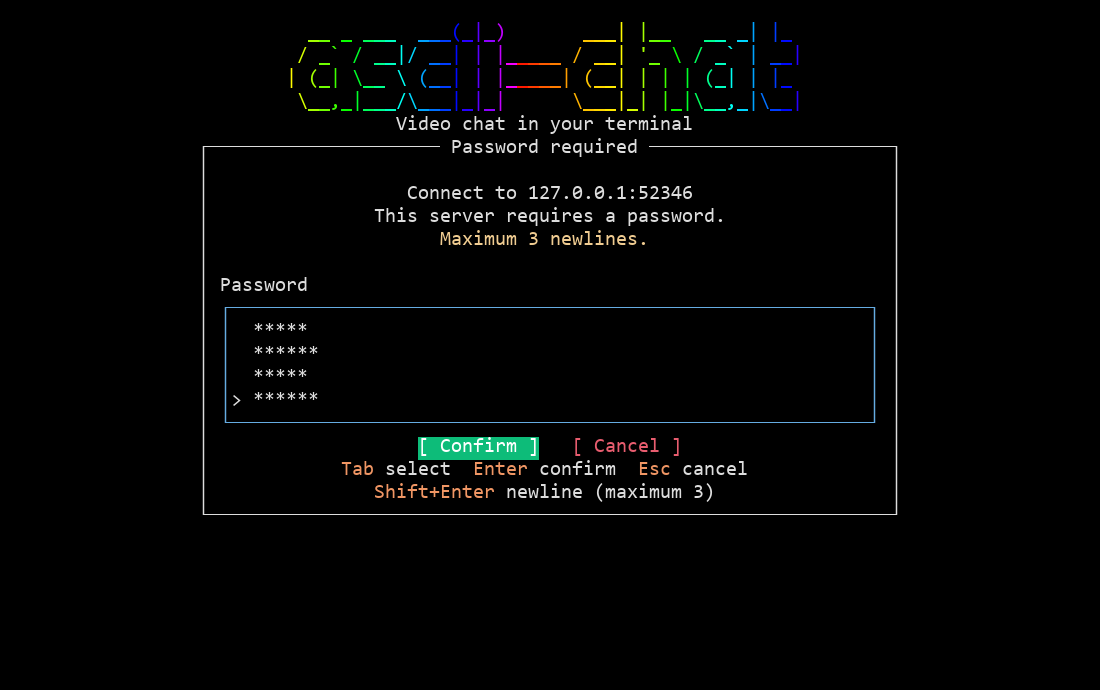
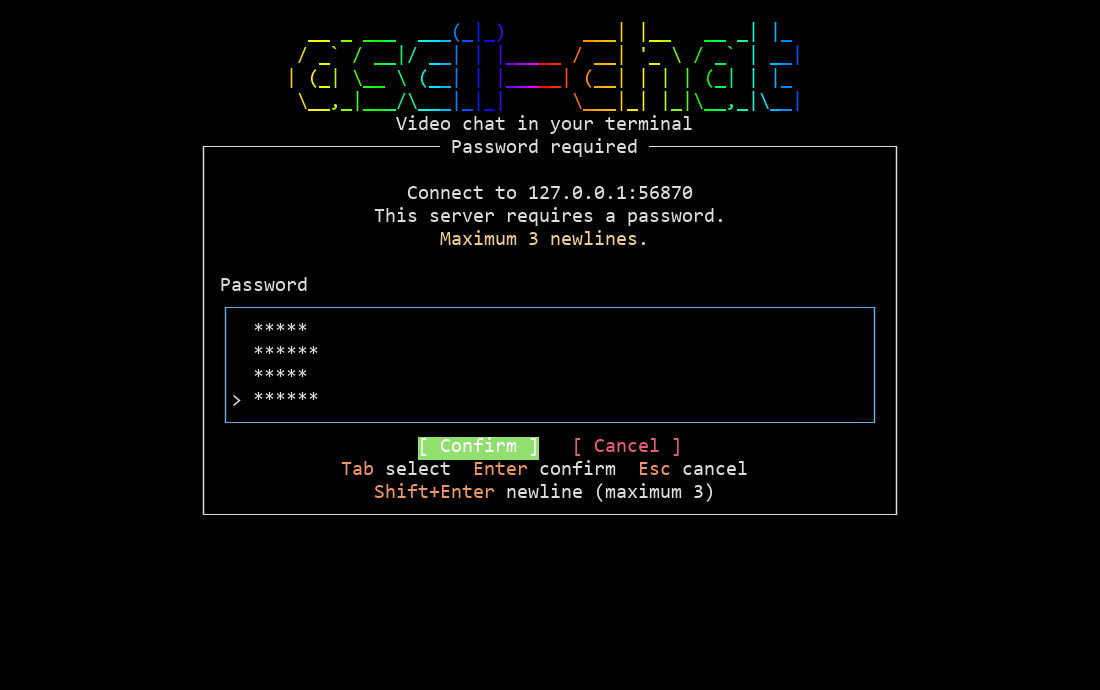
fix: use live button palette and address password prompt review

diff --git a/tests/integration/password_prompt.py b/tests/integration/password_prompt.py
@@ -25,7 +25,10 @@ def capture(term, path):
         from PIL import Image, ImageDraw, ImageFont
     except ImportError:
         return  # Screenshots are optional; terminal assertions still run.
-    font = ImageFont.truetype('C:/Windows/Fonts/consola.ttf' if os.name == 'nt' else 'DejaVuSansMono.ttf', 20)
+    try:
+        font = ImageFont.truetype('C:/Windows/Fonts/consola.ttf' if os.name == 'nt' else 'DejaVuSansMono.ttf', 20)
+    except OSError:
+        return  # Optional screenshots must not disable terminal assertions.
     palette = {'black': '#000000', 'red': '#cd3131', 'green': '#0dbc79', 'yellow': '#e5e510',
                'blue': '#2472c8', 'magenta': '#bc3fbc', 'cyan': '#11a8cd', 'white': '#e5e5e5',
                'brightblack': '#666666', 'brightred': '#f14c4c', 'brightgreen': '#23d18b',
@@ -36,13 +39,15 @@ def capture(term, path):
     cw = round(font.getlength('M'))
     top, bottom = font.getbbox('\u2502')[1::2]
     ch = bottom - top
+    light = 'ffff/ffff/ffff' in term.background_reply
+    default_fg, default_bg = ('#222222', '#ffffff') if light else ('#dddddd', '#000000')
     image = Image.new('RGB', (term.screen.columns * cw, term.screen.lines * ch), '#000000')
     draw = ImageDraw.Draw(image)
     glyphs = []
     for row in range(term.screen.lines):
         for col in range(term.screen.columns):
             cell = term.screen.buffer[row][col]
-            fg, bg = color(cell.fg, '#dddddd'), color(cell.bg, '#000000')
+            fg, bg = color(cell.fg, default_fg), color(cell.bg, default_bg)
             if cell.reverse:
                 fg, bg = bg, fg
             x, y = col * cw, row * ch
@@ -147,6 +152,20 @@ def main():
             peer.write('\t')
             selected(peer, '[ Confirm ]')
             save(peer, 'client-initial')
+            def confirm_style():
+                row, line = next((r, line) for r, line in enumerate(peer.screen.display) if '[ Confirm ]' in line)
+                cell = peer.screen.buffer[row][line.index('[ Confirm ]')]
+                return cell.fg, cell.bg
+            dark_style = confirm_style()
+            peer.background_reply = '\x1b]11;rgb:ffff/ffff/ffff\x1b\\'
+            peer.expect(lambda s: '[ Confirm ]' in s and confirm_style()[0] != dark_style[0] and
+                        confirm_style()[1] != dark_style[1], 'Button palette did not react to a light background')
+            selected(peer, '[ Confirm ]')
+            save(peer, 'client-light')
+            peer.background_reply = '\x1b]11;rgb:0000/0000/0000\x1b\\'
+            peer.expect(lambda s: '[ Confirm ]' in s and confirm_style() == dark_style,
+                        'Button palette did not return to dark colors')
+
             peer.write('x' * 80)
             peer.expect(lambda s: s.count('*') >= 50, 'Long input did not render')
             save(peer, 'client-scrolled')
@@ -210,6 +229,14 @@ def main():
             while 'CLIENT_CONNECTION_RUNNING' not in (root / 'retry.log').read_text(encoding='utf-8', errors='replace'):
                 assert time.monotonic() < deadline, peer.pump()
                 peer.pump(.1)
+            server.close()
+            server = terminal('server-restarted', ['server', '--port', str(port), '--status-screen=false'], password=True)
+            deadline = time.monotonic() + 35
+            while (root / 'retry.log').read_text(encoding='utf-8', errors='replace').count('CLIENT_CONNECTION_RUNNING') < 2:
+                text = peer.pump(.2)
+                assert 'Password required' not in text, 'Reconnect requested an already accepted password'
+                server.pump(.05)
+                assert time.monotonic() < deadline, 'Client did not reconnect with its session password'
             assert SECRET not in ''.join(peer.raw)
             for name, keys, utf8 in [('escape', '\x1b', 'true'), ('cancel', '\t\r', 'true'),
                                      ('ascii-cancel', '\t\r', 'false')]:
@@ -223,6 +250,9 @@ def main():
                 cancelled.write(keys)
                 wait_exit(cancelled)
             print('PASS client: retries, editing, spaces, masking, minimum length, multiline limit, UTF-8/ASCII borders, Tab, cursor navigation, horizontal scrolling, resize, Enter, Esc', flush=True)
+
+            peer.close()
+            server.close()
 
             acds_port = free_port()
             acds = subprocess.Popen([binary, '--no-check-update', '--log-file', str(root / 'acds.log'),
@@ -252,6 +282,13 @@ def main():
                 joiner.pump(.1)
             assert joiner.process.isalive()
             assert SECRET not in ''.join(joiner.raw)
+            headless_log = root / 'discovery-headless.log'
+            headless = subprocess.run([binary, '--no-check-update', '--log-file', str(headless_log), session, *discovery],
+                                      stdin=subprocess.PIPE, stdout=subprocess.PIPE, stderr=subprocess.PIPE,
+                                      env=environment, timeout=25)
+            assert headless.returncode != 0, 'Missing headless password unexpectedly succeeded'
+            assert 'Discovery state: FAILED' in headless_log.read_text(encoding='utf-8', errors='replace'), \
+                'Unavailable password prompt did not publish discovery failure'
             for name, keys in [('discovery-escape', '\x1b'), ('discovery-cancel', '\t\r')]:
                 cancelled = terminal(name, [session, *discovery])
                 prompt(cancelled)

diff --git a/src/client/connection.c b/src/client/connection.c
@@ -1,7 +1,6 @@
 #include <ascii-chat/util/password.h>
 #include <ascii-chat/otel.h>
 #include <ascii-chat/tui/input.h>
-#include <sodium.h>
 #include <ascii-chat/network/negotiation.h>
 #include "connection_internal.h"
 #include "server.h"
@@ -127,14 +126,15 @@ asciichat_error_t client_connection_create(client_connection_t **out) {
   return result;
 }
 
-asciichat_error_t client_connection_start(client_connection_t *connection, const char *address, uint16_t port) {
+asciichat_error_t client_connection_start(client_connection_t *connection, const char *address, uint16_t port,
+                                          char *password, size_t password_capacity) {
   ASCII_OTEL_SCOPE(CONNECTION_ATTEMPT);
+  if (!password || password_capacity < PASSWORD_BUFFER_SIZE)
+    return SET_ERRNO(ERROR_INVALID_PARAM, "Missing session password storage");
   if (!connection || atomic_load_int(&connection->lifecycle.state) != SESSION_CONNECTION_STARTING) {
     return SET_ERRNO(ERROR_INVALID_STATE, "Connection is not ready for startup");
   }
   connection_endpoint_t endpoint;
-  char password[PASSWORD_BUFFER_SIZE] = {0};
-  bool entered = false;
   asciichat_error_t result;
   for (;;) {
     result = network_connection_open("client", address, port, NULL, &connection->network, &endpoint);
@@ -143,8 +143,7 @@ asciichat_error_t client_connection_start(client_connection_t *connection, const
     connection->transport = network_connection_transport(connection->network);
     server_connection_set_ip(connection, endpoint.host);
     server_connection_set_port(connection, endpoint.port);
-    result = client_crypto_init(connection, entered ? password : NULL);
-    sodium_memzero(password, sizeof(password));
+    result = client_crypto_init(connection, password[0] ? password : NULL);
     if (result != ASCIICHAT_OK)
       break;
     connection->crypto_ctx->defer_password_prompt = true;
@@ -161,12 +160,10 @@ asciichat_error_t client_connection_start(client_connection_t *connection, const
     CLEAR_ERRNO();
     char target[320];
     snprintf(target, sizeof(target), "%s:%u", endpoint.host, endpoint.port);
-    result = ui_input_password(target, password, sizeof(password), failure & AUTH_FAIL_PASSWORD_INCORRECT);
+    result = ui_input_password(target, password, password_capacity, failure & AUTH_FAIL_PASSWORD_INCORRECT);
     if (result != ASCIICHAT_OK)
       break;
-    entered = true;
   }
-  sodium_memzero(password, sizeof(password));
   if (result != ASCIICHAT_OK)
     return result;
   network_connection_ready(connection->network);

diff --git a/lib/tui/input.c b/lib/tui/input.c
@@ -449,6 +449,11 @@ void ui_input_shutdown(void) {
   lifecycle_destroy_commit(&g_input_lifecycle);
 }
 
+/** Own a synchronous prompt while the controller renders masked snapshots.
+ * Password dialogs keep navigation in the shared editor, route Tab/Enter to
+ * buttons, and reject excess newlines before insertion. Clipboard and terminal
+ * paste share atomic insertion; temporary secret buffers are wiped on exit.
+ */
 static asciichat_error_t input_prompt(const char *prompt, char *buffer, size_t max_len, prompt_opts_t opts,
                                       bool password_dialog, bool incorrect) {
   if (!prompt || !buffer || max_len < 2)
@@ -476,6 +481,7 @@ static asciichat_error_t input_prompt(const char *prompt, char *buffer, size_t m
   snprintf(timed_prompt, sizeof(timed_prompt), "%s\n(Timeout: %us; cancels without an answer)", prompt, seconds);
   asciichat_error_t result = ASCIICHAT_OK;
   bool newline_limit = false;
+  // Request modifier-aware Enter while this dialog owns terminal input.
   if (password_dialog) {
     const char *enable = "\033[>1u\033[>4;2m";
     platform_write_all(STDERR_FILENO, enable, strlen(enable));
@@ -504,6 +510,7 @@ static asciichat_error_t input_prompt(const char *prompt, char *buffer, size_t m
       if (!opts.mask_char)
         display_cursor = 0;
     }
+    // Presentation owns only the mask; the caller retains the credential.
     result = password_dialog ? ui_password_prompt_present(prompt, visible, display_cursor, buttons.selected, incorrect,
                                                           len >= MIN_PASSWORD_LENGTH, newline_limit)
                              : ui_prompt_present(timed_prompt, visible, display_cursor, !opts.echo);
@@ -538,6 +545,7 @@ static asciichat_error_t input_prompt(const char *prompt, char *buffer, size_t m
       }
       continue;
     }
+    // Validate the whole paste before editing so rejection cannot leave a partial password.
     if (key == KEY_PASTE || key == 22) {
       char pasted[8192] = {0};
       asciichat_error_t pasted_result =
@@ -566,6 +574,7 @@ static asciichat_error_t input_prompt(const char *prompt, char *buffer, size_t m
       } else {
         CLEAR_ERRNO();
       }
+      // Clipboard and terminal paste buffers can contain unmasked credentials.
       sodium_memzero(pasted, sizeof(pasted));
       continue;
     }

diff --git a/src/client/main.c b/src/client/main.c
@@ -1,3 +1,5 @@
+#include <ascii-chat/util/password.h>
+#include <sodium.h>
 #include <ascii-chat/network/acip/settings.h>
 #include "connection_internal.h"
 /**
@@ -153,10 +155,11 @@ struct webrtc_peer_manager *g_peer_manager = NULL;
  * Used by client_run() callback to manage the connection/reconnection loop.
  */
 typedef struct {
-  const char *discovered_address; // From LAN/session discovery
-  int discovered_port;            // From LAN/session discovery
-  int reconnect_attempt;          // Current reconnection attempt number
-  bool has_ever_connected;        // Track if connection ever succeeded
+  const char *discovered_address;      // From LAN/session discovery
+  int discovered_port;                 // From LAN/session discovery
+  int reconnect_attempt;               // Current reconnection attempt number
+  char password[PASSWORD_BUFFER_SIZE]; // Retained across attempts, wiped by session cleanup.
+  bool has_ever_connected;             // Track if connection ever succeeded
 } client_session_state_t;
 
 static client_session_state_t g_client_session = {0};
@@ -191,6 +194,7 @@ static void shutdown_client() {
   // Stop splash animation thread before any resource cleanup
   splash_intro_done();
 
+  sodium_memzero(g_client_session.password, sizeof(g_client_session.password));
   audio_cleanup();
   capture_cleanup();
   acip_websocket_runtime_destroy(&g_websocket_runtime);
@@ -345,7 +349,8 @@ static asciichat_error_t client_run_attempt(session_capture_ctx_t *capture, sess
 
   asciichat_error_t connection_result = client_connection_start(
       connection, g_client_session.discovered_address ? g_client_session.discovered_address : "",
-      (uint16_t)(g_client_session.discovered_port > 0 ? g_client_session.discovered_port : 27224));
+      (uint16_t)(g_client_session.discovered_port > 0 ? g_client_session.discovered_port : 27224),
+      g_client_session.password, sizeof(g_client_session.password));
   if (connection_result != ASCIICHAT_OK) {
     if (should_exit())
       return ERROR_NETWORK;

diff --git a/tests/unit/options/colorscheme_files_test.c b/tests/unit/options/colorscheme_files_test.c
@@ -89,3 +89,24 @@ Test(colorscheme_files, hex_colors_require_six_valid_digits) {
     cr_assert_eq(parse_hex_color(invalid[i], &r, &g, &b), ERROR_CONFIG);
   cr_assert_eq(parse_hex_color(NULL, &r, &g, &b), ERROR_INVALID_PARAM);
 }
+
+Test(colorscheme_files, live_background_palette_uses_custom_logging_colors_at_every_depth) {
+  color_scheme_t previous = *colorscheme_get_active_scheme();
+  color_scheme_t custom = previous;
+  custom.log_colors_dark[2] = custom.log_colors_light[2] = (rgb_pixel_t){1, 240, 3};
+  custom.log_colors_dark[4] = custom.log_colors_light[4] = (rgb_pixel_t){240, 1, 3};
+  colorscheme_apply(&custom);
+  colorscheme_palette_t palette;
+  colorscheme_current_palette(&palette, TERM_COLOR_TRUECOLOR);
+  cr_expect_str_eq(palette.background_codes[2], "\033[48;2;1;240;3m");
+  cr_expect_str_eq(palette.background_codes[4], "\033[48;2;240;1;3m");
+  colorscheme_current_palette(&palette, TERM_COLOR_256);
+  cr_expect_str_eq(palette.background_codes[2], "\033[48;5;46m");
+  cr_expect_str_eq(palette.background_codes[4], "\033[48;5;196m");
+  colorscheme_current_palette(&palette, TERM_COLOR_16);
+  cr_expect_str_eq(palette.background_codes[2], "\033[102m");
+  cr_expect_str_eq(palette.background_codes[4], "\033[101m");
+  colorscheme_current_palette(&palette, TERM_COLOR_NONE);
+  cr_expect_str_eq(palette.background_codes[2], "");
+  colorscheme_apply(&previous);
+}

diff --git a/lib/ui/buttons.c b/lib/ui/buttons.c
@@ -45,13 +45,15 @@ void ui_buttons_render(frame_buffer_t *out, int row, int left, int width, const 
     if (selected_button && colors) {
       terminal_color_mode_t mode = GET_OPTION(color_mode);
       if (mode == TERM_COLOR_AUTO)
-        mode = terminal_get_effective_color_mode();
+        mode = (terminal_color_mode_t)log_get_color_mode();
+      if (mode == TERM_COLOR_NONE)
+        mode = TERM_COLOR_16;
       colorscheme_palette_t palette;
       colorscheme_current_palette(&palette, mode);
       uint8_t grey = colorscheme_highlight_background();
       frame_buffer_printf(out, "\033[%d;%dH\033[0m%s", row + (stacked ? (int)i : 0), x, palette.foreground);
-      if (b[i].color == LOG_COLOR_INFO || b[i].color == LOG_COLOR_ERROR)
-        frame_buffer_printf(out, "\033[%dm", b[i].color == LOG_COLOR_INFO ? 42 : 41);
+      if (b[i].color > LOG_COLOR_DEV && b[i].color < LOG_COLOR_RESET)
+        frame_buffer_printf(out, "%s", palette.background_codes[b[i].color]);
       else if (mode >= TERM_COLOR_TRUECOLOR)
         frame_buffer_printf(out, "\033[48;2;%u;%u;%um", grey, grey, grey);
       else if (mode >= TERM_COLOR_256)

diff --git a/lib/options/colorscheme.c b/lib/options/colorscheme.c
@@ -944,6 +944,19 @@ void colorscheme_current_palette(colorscheme_palette_t *palette, terminal_color_
     rgb_pixel_t rgb = colors[i == 8 ? 7 : i];
     if (mode == TERM_COLOR_NONE)
       continue;
+    if (i < 8) {
+      char *background = palette->background_codes[i];
+      if (i == 7)
+        safe_snprintf(background, 32, "\033[49m");
+      else if (mode >= TERM_COLOR_TRUECOLOR)
+        safe_snprintf(background, 32, "\033[48;2;%u;%u;%um", rgb.r, rgb.g, rgb.b);
+      else if (mode >= TERM_COLOR_256)
+        safe_snprintf(background, 32, "\033[48;5;%dm", rgb_to_256color(rgb.r, rgb.g, rgb.b));
+      else {
+        unsigned index = rgb_to_16color(rgb.r, rgb.g, rgb.b);
+        safe_snprintf(background, 32, "\033[%um", index < 8 ? 40 + index : 100 + index - 8);
+      }
+    }
     if (i == 7)
       safe_snprintf(code, 32, "\033[0m");
     else if (mode >= TERM_COLOR_TRUECOLOR)

diff --git a/src/client/connection.h b/src/client/connection.h
@@ -3,11 +3,14 @@
 #include "connection.h"
 #include <ascii-chat/asciichat_errno.h>
 #include <stdint.h>
+#include <stddef.h>
 
 typedef struct client_connection client_connection_t;
 
 asciichat_error_t client_connection_create(client_connection_t **out);
-asciichat_error_t client_connection_start(client_connection_t *connection, const char *address, uint16_t port);
+/** Reuse caller-owned session credentials across attempts; the owner wipes them at session shutdown. */
+asciichat_error_t client_connection_start(client_connection_t *connection, const char *address, uint16_t port,
+                                          char *password, size_t password_capacity);
 void client_connection_request_stop(client_connection_t *connection);
 asciichat_error_t client_connection_stop(client_connection_t *connection);
 asciichat_error_t client_connection_destroy(client_connection_t **connection);

diff --git a/src/discovery/session.c b/src/discovery/session.c
@@ -1326,8 +1326,11 @@ static asciichat_error_t join_session(discovery_session_t *session) {
     bool incorrect = session->password[0] != 0;
     CLEAR_ERRNO();
     result = ui_input_password(session->session_string, session->password, sizeof(session->password), incorrect);
-    if (result != ASCIICHAT_OK)
+    if (result != ASCIICHAT_OK) {
+      if (!shutdown_is_requested())
+        set_error(session, result, "Password required to join session");
       return result;
+    }
   }
   if (result != ASCIICHAT_OK) {
     acds_protocol_destroy(&protocol);

diff --git a/include/ascii-chat/options/colorscheme.h b/include/ascii-chat/options/colorscheme.h
@@ -94,6 +94,7 @@ typedef struct {
 /** A caller-owned palette: no shared string lifetime or allocation. */
 typedef struct {
   char codes[8][32];
+  char background_codes[8][32]; /**< Matching live logging colors as background SGR sequences. */
   char foreground[32];
   terminal_background_t background;
 } colorscheme_palette_t;

diff --git a/images/password-prompt/README.md b/images/password-prompt/README.md
@@ -20,6 +20,7 @@ is bypassed only in the test subprocess environment to isolate password entry;
 production trust checks are unchanged. Discovery success asserts that an accepted
 session join reaches `CONNECTING_HOST`; this is not a WebRTC media delivery test.
 
+- `client-light.png`: same live dialog after an OSC 11 switch to a light background.
 - `client-initial.png`: initial password dialog, with Confirm selected by default.
 - `client-selected-cancel.png`: Cancel selected using Right, with a filled background.
 - `client-scrolled.png`: horizontally scrolled 80-character masked input.
@@ -48,3 +49,8 @@ unselected Confirm is green and Cancel is red. Disabled Confirm remains gray.
 Popup borders use `terminal_should_use_utf8()`: `--utf8 true` forces Unicode,
 `--utf8 false` forces ASCII, and auto follows detection. Captures use the measured
 font cell dimensions so adjacent Unicode box-drawing glyphs meet.
+
+Selected backgrounds come from the live logging palette, including the scheme’s
+light/dark variants and terminal color depth. The test switches OSC 11 replies
+from dark to light and back while the dialog remains open. It also restarts the
+TCP server and verifies reconnect reuses the prompted session credential.
